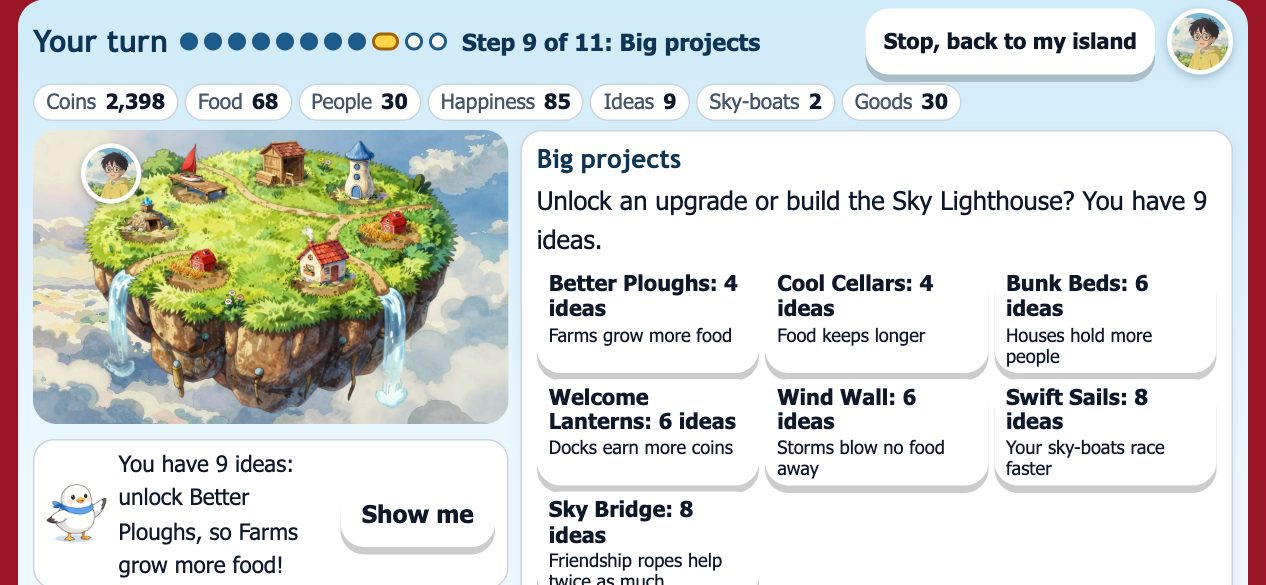
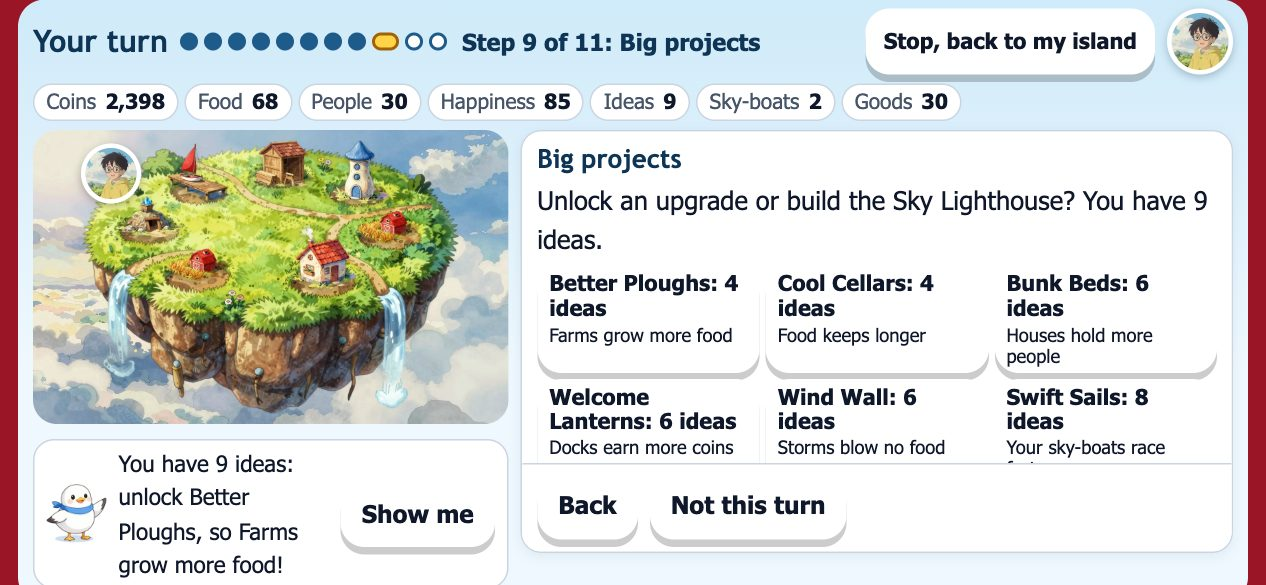
Sky Isles: the turn is the same 11 steps every time, one choice per screen
Report, question, collect, land, build, tax, workshops, festival, big
projects, market, check and end. A step that can't happen is shown greyed
with the reason (from problemWith) and a Next button. Land and Build ask
"another?". Back on steps 4 to 11 and Stop, back to my island. The big
spend panel is gone (Spend.tsx -> Spot.tsx). Server, migration and rules
engine unchanged. Test 7 now walks all 11 steps by keyboard.

diff --git a/src/games/isles/isles.css b/src/games/isles/isles.css
@@ -112,7 +112,7 @@
 .si-choice__why { font-size: 0.85rem; color: var(--ink-soft); }
 .si-close { min-height: 44px; }
 .si-buildgrid { display: grid; grid-template-columns: repeat(auto-fill, minmax(150px, 1fr)); gap: 6px; }
-.si-buildgrid .button { width: 100%; height: 100%; display: grid; gap: 2px; text-align: left; justify-items: start; align-content: start; }
+.si .si-buildgrid .button { width: 100%; height: 100%; display: grid; gap: 2px; text-align: left; justify-items: start; justify-content: stretch; align-content: start; }
 .si-build__name { font-weight: 700; }
 .si-build__job { font-size: 0.82rem; font-weight: 400; }
 .si-tax { display: grid; gap: 6px; }
@@ -232,6 +232,9 @@
   .si-step__nav .button { white-space: normal; min-height: 44px; padding: 6px 14px; font-size: 0.95rem; line-height: 1.15; }
   .si-step__main { font-size: 1rem; }
   .si-step .si-buildgrid { grid-template-columns: repeat(3, 1fr); gap: 4px; }
+  /* A tall step scrolls inside its panel, with its buttons pinned at the bottom. */
+  .si-step { max-height: calc(100dvh - 108px); overflow-y: auto; }
+  .si-step__nav { position: sticky; bottom: -8px; margin: 0 -10px -8px; padding: 6px 10px 8px; background: var(--surface); border-top: 1px solid var(--line); }
   .si-step .si-choice__button { padding: 4px 8px; font-size: 0.85rem; line-height: 1.15; }
   .si-step .si-build__job { font-size: 0.72rem; }
   .si-pipsays { flex-wrap: wrap; }

diff --git a/docs/ISLES-PLAN.md b/docs/ISLES-PLAN.md
@@ -648,16 +648,18 @@ James found the S.3 turn confusing: after the collect sum, one big spend panel o
 - **Market** says "The market opens soon" with Next. S.4 fills it in; the step stays so the order never changes.
 - **Check and end:** this turn's choices, "Coins left", Undo last and End turn. End turn still sends everything in one `turn` request.
 - **Pip:** during a turn he sits under the island and talks about this step only. If his next step (`nextStep`) is about this step, he says it with "Show me"; otherwise the step's own line. On My island, "Show me" for a button that lives in a turn lights up "Play a turn", and the button stays lit when its step comes. `nextStep()`'s targets didn't need to change (the same `data-pip` names, now each on its own step).
-- **Phone on its side (844×390):** a tighter layout (smaller header, the turn pips hidden during a turn, Pip under the island, wider step panel, three tax cards in a row, smaller build buttons). Every step's main button shows without scrolling. The one exception: with a spot chosen on the Build step, the build buttons show but "Not this turn" is just below.
+- **Phone on its side (844×390):** a tighter layout (smaller header, the turn pips hidden during a turn, Pip under the island, wider step panel, three tax cards in a row, smaller build buttons). Every step's main buttons show without scrolling. A long step (the build choices for a spot, or many upgrades ready at once) scrolls inside its own panel, with Back and Next or "Not this turn" pinned at the bottom.
 
 **Decisions (James can change any):**
 - Back takes away the choices of the step you go back to (and of the step you were on), so it can be chosen again.
 - Festival and Big projects have one choice each per turn, so they move on straight after it, with no "another?".
 - "Back to my island" stays on step 1 (before the turn starts), as before.
+- A Sonnet helper checked the screenshots. Its fixes are in: the upgrade buttons are light, not all dark; Land with no drift says so plainly instead of showing a price; the tax cards line up and the picked one has a tick and a thicker border, with plainer happiness words; Undo last sits away from End turn.
+- The replay script `scripts/isles-turns/play-three-turns.mjs` plays the three turns and retakes the screenshots in headless Chrome. It needs the preview running on port 5191.
 
 **Tests:** still 6 of 8. Test 7 now walks all 11 steps by keyboard, checks each step's heading gets focus and the strip says "Step n of 11", checks that Land (which can't happen yet) is greyed with "Needs 510 coins. You have …" and that its Next works, and checks Back.
 
-**Checks run:** CHECKS_LINE
+**Checks run:** the type check, `npm run test:all` (340 files, 5,939 tests, all passed), the build and the preview build. The one-file preview is republished to the same private page, https://claude.ai/artifact/Q7phU2vhvHx4yYSPBUxpE6.
 
 **Played in the preview** (headless Chrome, at 1366×640 and 844×390): a turn with lots of coins (question answered right, a chunk anchored, a Library and a Workshop built, High tax, a festival, Better Ploughs), a turn with almost no coins, and a turn after "Skip to tomorrow". Every turn showed the same 11 steps in order. Screenshots of steps 4, 5, 6, 9 and 11 (and a greyed step 4) are in `docs/isles-screens/turn-steps/`.
 
